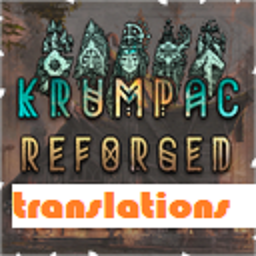
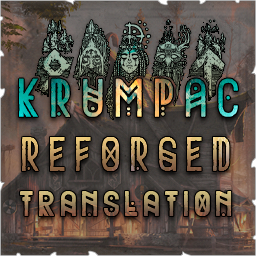
1.0.15

diff --git a/CHANGELOG.md b/CHANGELOG.md
@@ -1,3 +1,4 @@
+* 1.0.15 -> updated icon
 * 1.0.14 -> fixed typo for stag breaker translations
 * 1.0.13 -> added missing lydit shield
 * 1.0.12 ->
